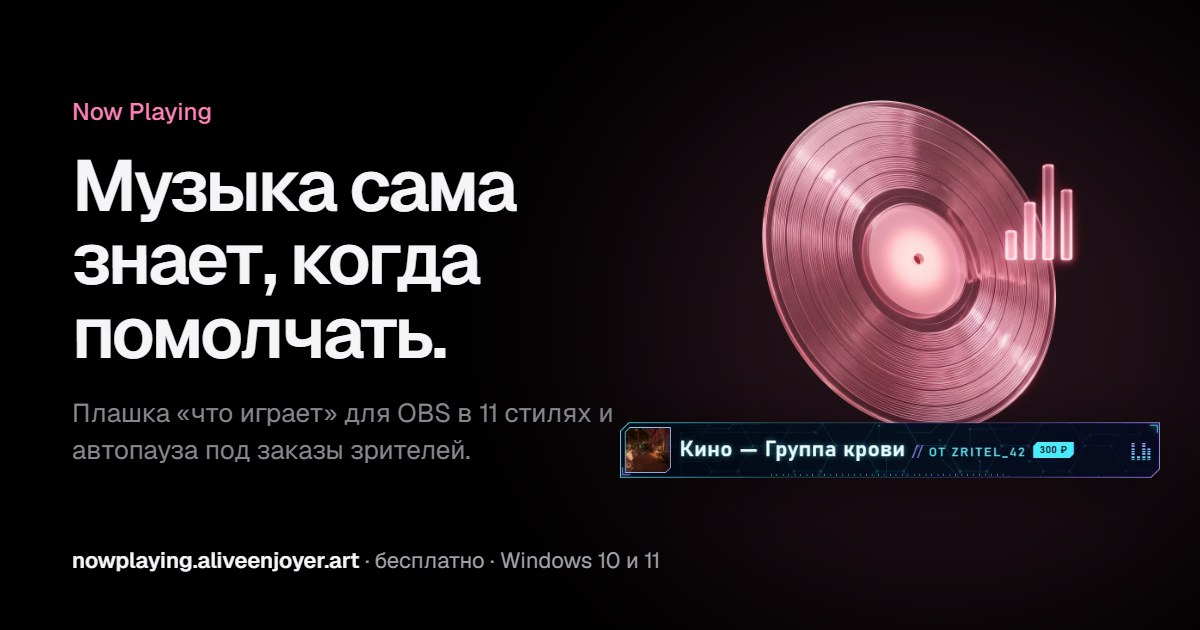
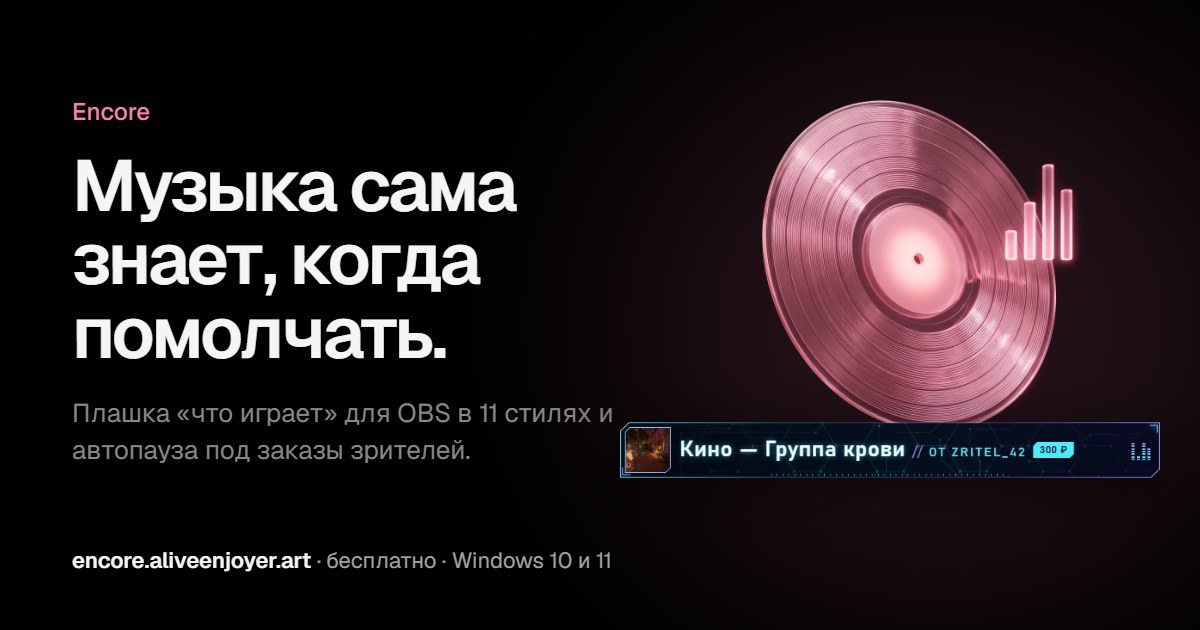
Сайт: программа теперь Encore, домен encore.aliveenjoyer.art

Changed region(s): [[0.0617, 0.8746, 0.555, 0.9048], [0.0617, 0.1508, 0.185, 0.2111]]

diff --git a/docs/index.html b/docs/index.html
@@ -3,14 +3,14 @@
 <head>
 <meta charset="utf-8">
 <meta name="viewport" content="width=device-width, initial-scale=1">
-<title>Now Playing: плашка «что играет» для OBS и автопауза под заказы</title>
-<meta name="description" content="Now Playing показывает на стриме, что играет, в одном из 11 стилей и ставит твою музыку на паузу, пока звучит заказ зрителя. Бесплатно, Windows 10 и 11, меньше 1 МБ.">
+<title>Encore: плашка «что играет» для OBS и автопауза под заказы</title>
+<meta name="description" content="Encore показывает на стриме, что играет, в одном из 11 стилей и ставит твою музыку на паузу, пока звучит заказ зрителя. Бесплатно, Windows 10 и 11, меньше 1 МБ.">
 <meta name="theme-color" content="#000000">
-<meta property="og:title" content="Now Playing: музыка сама знает, когда помолчать">
+<meta property="og:title" content="Encore: музыка сама знает, когда помолчать">
 <meta property="og:description" content="Плашка «что играет» для OBS в 11 стилях и автопауза под заказы зрителей. Бесплатно.">
 <meta property="og:type" content="website">
-<meta property="og:url" content="https://nowplaying.aliveenjoyer.art/">
-<meta property="og:image" content="https://nowplaying.aliveenjoyer.art/assets/og.jpg">
+<meta property="og:url" content="https://encore.aliveenjoyer.art/">
+<meta property="og:image" content="https://encore.aliveenjoyer.art/assets/og.jpg">
 <meta name="twitter:card" content="summary_large_image">
 <link rel="icon" type="image/png" href="assets/icon-64.png">
 <link rel="apple-touch-icon" href="assets/icon-180.png">
@@ -19,7 +19,7 @@
 <link rel="preconnect" href="https://fonts.gstatic.com" crossorigin>
 <link href="https://fonts.googleapis.com/css2?family=Geist:wght@300..700&family=Geist+Mono:wght@400;500&display=swap" rel="stylesheet">
 <style>
-/* the look of aliveenjoyer.art (Hub): black, Geist, one glass object, the project's own colour (pink for Now Playing) */
+/* the look of aliveenjoyer.art (Hub): black, Geist, one glass object, the project's own colour (pink for Encore) */
 :root {
   --bg: #000;
   --tile: #0a0a0b;
@@ -209,7 +209,7 @@ section { scroll-margin-top: 72px; }
 
 <header class="nav">
   <div class="wrap nav-in">
-    <a class="brand" href="./"><img src="assets/icon-64.png" alt="" width="22" height="22">Now Playing <small>от aliveenjoyer</small></a>
+    <a class="brand" href="./"><img src="assets/icon-64.png" alt="" width="22" height="22">Encore <small>от aliveenjoyer</small></a>
     <nav class="nav-links" aria-label="Разделы">
       <a href="#styles">Стили</a>
       <a href="#orders">Заказы</a>
@@ -268,7 +268,7 @@ section { scroll-margin-top: 72px; }
       <div class="tile soon">
         <span class="badge">Скоро</span>
         <h3>Заказ треков за баллы канала</h3>
-        <p>Без Trula и без донатов. Зритель пишет название или кидает ссылку, трек играет прямо из Now Playing.</p>
+        <p>Без Trula и без донатов. Encore сама заводит на Twitch награду «Заказать трек»: зритель пишет название или кидает ссылку, трек играет прямо из Encore.</p>
         <ul class="facts">
           <li>YouTube, YouTube Music, Spotify, SoundCloud или просто название</li>
           <li>Ты задаёшь лимиты: длина трека, минимум просмотров, треков от одного зрителя</li>
@@ -283,7 +283,7 @@ section { scroll-margin-top: 72px; }
       <h2 id="h-settings">Все настройки на одном экране.</h2>
       <p>Стиль, Trula, автопауза, говорящая вебка и обновления. Ничего не надо искать по вкладкам.</p>
     </div>
-    <div class="tile shot"><img src="assets/settings.webp" width="1366" height="657" alt="Окно настроек Now Playing: предпросмотр плашки, стили, Trula, автопауза, вебка и система" loading="lazy"></div>
+    <div class="tile shot"><img src="assets/settings.webp" width="1366" height="657" alt="Окно настроек Encore: предпросмотр плашки, стили, Trula, автопауза, вебка и система" loading="lazy"></div>
     <ul class="trio">
       <li><b>Обновляется сама</b><span>Новая версия ставится в тишине между треками. Плашка в OBS перезагружается сама.</span></li>
       <li><b>Всё на твоём компьютере</b><span>Работает на localhost. Токен Trula хранится только у тебя.</span></li>
@@ -297,7 +297,7 @@ section { scroll-margin-top: 72px; }
     </div>
     <div class="tile install">
       <ol class="steps">
-        <li><div><b>Скачай и запусти</b><span>Распакуй папку «Now Playing» целиком и запусти <code>Now Playing.exe</code>. Если Windows ругается, «Подробнее» → «Выполнить в любом случае».</span></div></li>
+        <li><div><b>Скачай и запусти</b><span>Распакуй папку из архива целиком и запусти программу. Если Windows ругается, «Подробнее» → «Выполнить в любом случае».</span></div></li>
         <li><div><b>Вставь ссылку Trula и выбери стиль</b><span>Настройки откроются сами. Ссылку на виджет «Заказ музыки» берёшь из OBS.</span></div></li>
         <li><div><b>Добавь плашку в OBS</b><span>Источник «Браузер», ширина 720, высота 96:</span>
           <span class="url"><code id="obsUrl">http://localhost:7790/bar</code><button class="copy" type="button" data-copy="obsUrl">Скопировать</button></span></div></li>
@@ -320,7 +320,7 @@ section { scroll-margin-top: 72px; }
     </div>
   </div>
   <div class="fine">
-    <span>Now Playing бесплатна. Trula, YouTube, Spotify, SoundCloud и OBS принадлежат своим владельцам, программа с ними не связана.</span>
+    <span>Encore бесплатна, раньше называлась Now Playing. Trula, YouTube, Spotify, SoundCloud и OBS принадлежат своим владельцам, программа с ними не связана.</span>
     <a href="https://github.com/aliveenjoyer/now-playing">GitHub</a>
   </div>
 </footer>

diff --git a/README.md b/README.md
@@ -2,7 +2,7 @@
 
 Плашка «что сейчас играет» для OBS и автопауза под заказы Trula. Windows 10 и 11, архив меньше 1 МБ, бесплатно.
 
-**[⬇ Скачать NowPlaying.zip](https://github.com/aliveenjoyer/now-playing/releases/latest/download/NowPlaying.zip)** · [Сайт](https://nowplaying.aliveenjoyer.art) · [Что нового](https://github.com/aliveenjoyer/now-playing/releases) · [Другие проекты](https://aliveenjoyer.art)
+**[⬇ Скачать NowPlaying.zip](https://github.com/aliveenjoyer/now-playing/releases/latest/download/NowPlaying.zip)** · [Сайт](https://encore.aliveenjoyer.art) · [Что нового](https://github.com/aliveenjoyer/now-playing/releases) · [Другие проекты](https://aliveenjoyer.art)
 
 ![Все стили плашки с одной песней поверх кадра Deadlock, в том же месте и масштабе, что в OBS](docs/styles.jpg)
 
